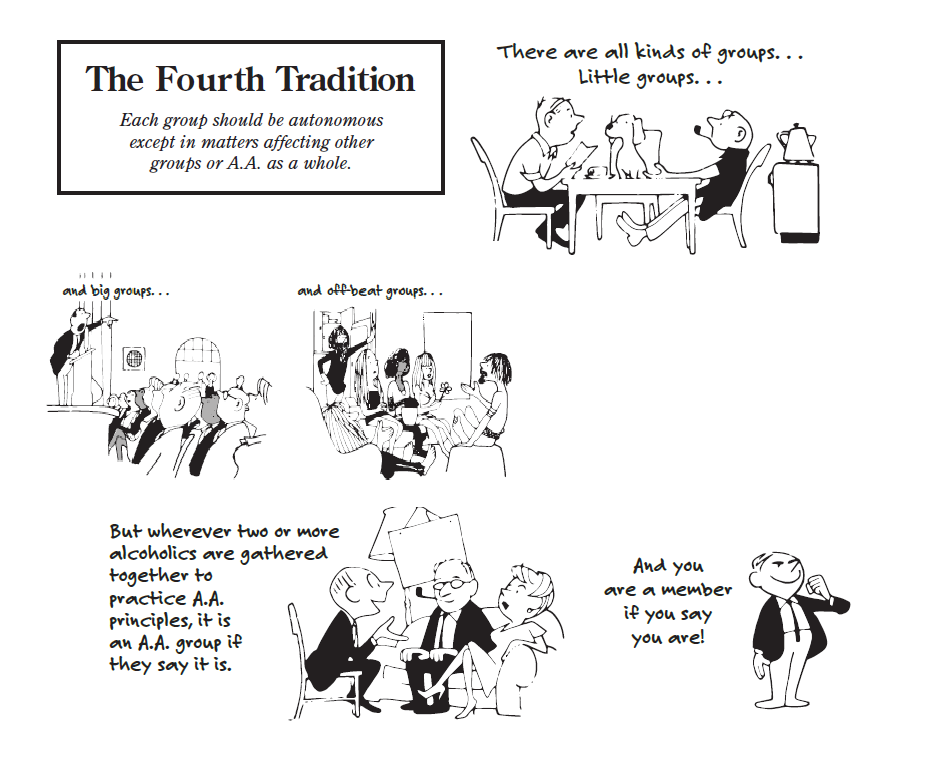
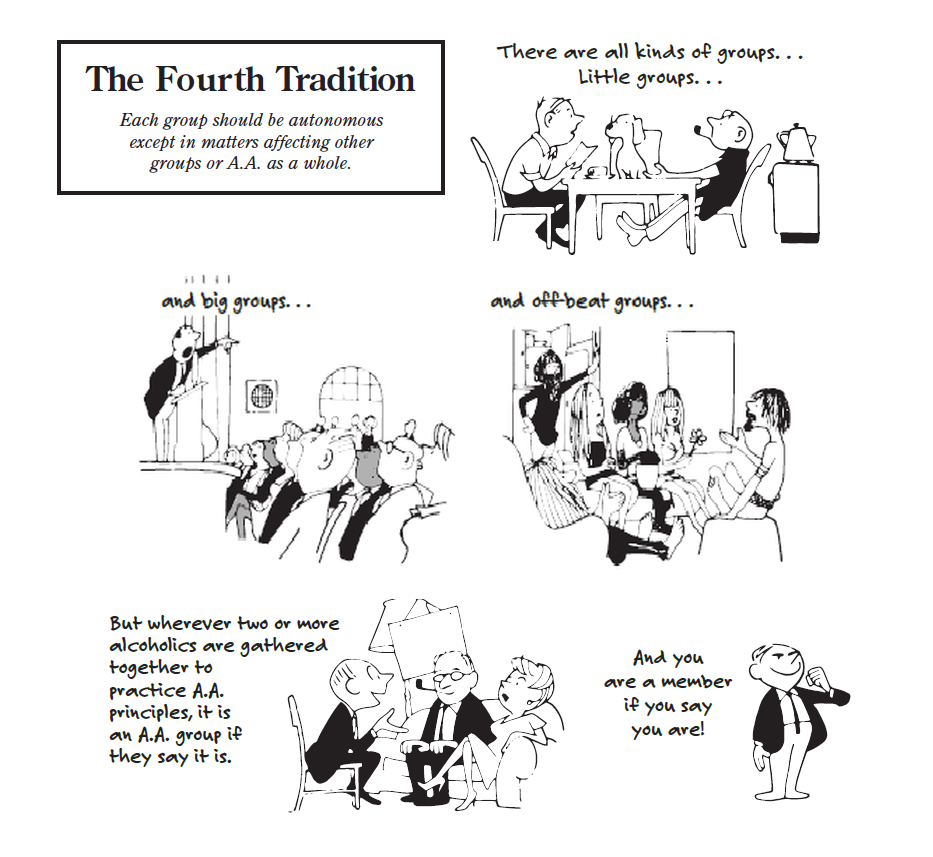
Enlarge middle panels in Fourth Tradition image

diff --git a/docs/index.md b/docs/index.md
@@ -192,7 +192,7 @@ Welcome to the 24-Hour International Marathon Meeting of A.A., *where sobriety n
 
 <a class="explore-button" href="https://www.aa.org/living-sober-book" target="_blank" rel="noopener">Read &quot;Living Sober&quot; from A.A. World Services</a>
 
-![The Fourth Tradition](images/4_Trad.webp){ loading=lazy decoding=async width="933" height="765" }
+![The Fourth Tradition](images/4_Trad.webp){ loading=lazy decoding=async width="933" height="857" }
 
 ## Find A.A. Near You
 
